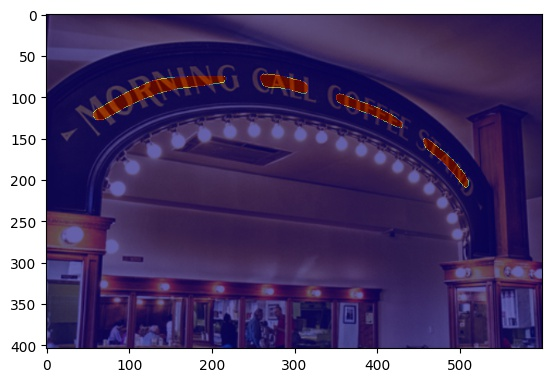
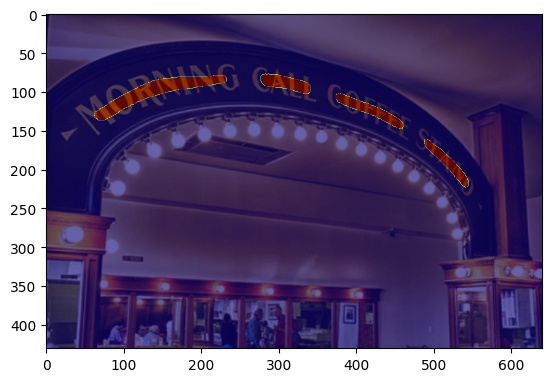
fix some issues

diff --git a/src/data_loaders.py b/src/data_loaders.py
@@ -38,7 +38,6 @@ class TotalTextDatasetIter(Dataset):
                  gt_paths,
                  is_training=True,
                  image_size=640,
-                 dataset='totaltext',
                  min_text_size=8,
                  shrink_ratio=0.4,
                  thresh_min=0.3,
@@ -62,7 +61,7 @@ class TotalTextDatasetIter(Dataset):
 
         self.mean = mean
 
-        self.all_anns = self.load_all_anns(gt_paths, dataset)
+        self.all_anns = self.load_all_anns(gt_paths)
         assert len(self.image_paths) == len(self.all_anns)
 
         self.debug = debug
@@ -71,13 +70,11 @@ class TotalTextDatasetIter(Dataset):
         augment_seq = iaa.Sequential([
             iaa.Fliplr(0.5),
             iaa.Affine(rotate=(-10, 10)),
-            # iaa.Crop(percent=(0, 0.1)),
-            # iaa.Sometimes(0.2, iaa.GaussianBlur(sigma=(0, 0.1))),
             iaa.Resize((0.5, 3.0))
         ])
         return augment_seq
 
-    def load_all_anns(self, gt_paths, dataset='totaltext'):
+    def load_all_anns(self, gt_paths):
         res = []
         for gt in gt_paths:
             lines = []
@@ -111,7 +108,7 @@ class TotalTextDatasetIter(Dataset):
             print(len(anns))
 
         img = cv2.imread(image_path)[:, :, ::-1]
-        if self.is_training:
+        if self.is_training and self.augment is not None:
             augment_seq = self.augment.to_deterministic()
             img, anns = db_transforms.transform(augment_seq, img, anns)
             img, anns = db_transforms.crop(img, anns)
@@ -213,7 +210,7 @@ def run(cfg):
                                           cfg.data.totaltext.train_gt_dir)
     totaltext_train_iter = TotalTextDatasetIter(image_paths,
                                                 gt_paths,
-                                                is_training=False,
+                                                is_training=True,
                                                 debug=False)
     totaltext_train_loader = DataLoader(dataset=totaltext_train_iter,
                                         batch_size=1,
@@ -227,8 +224,8 @@ def run(cfg):
     import matplotlib.pyplot as plt
     plt.figure()
     plt.imshow(minmax_scaler_img(samples['img'][0].numpy().transpose(1, 2, 0)))
-    plt.imshow(samples['prob_map'][0], cmap='jet', alpha=0.5)
-    plt.imshow(samples['thresh_map'][0], cmap='jet', alpha=0.7)
+    plt.imshow(samples['prob_map'][0], cmap='jet', alpha=0.35)
+    plt.imshow(samples['thresh_map'][0], cmap='jet', alpha=0.5)
     # plt.imshow(samples['text_area_map'][0], cmap='jet', alpha=0.5)
     # plt.imshow(samples['supervision_mask'][0], cmap='jet', alpha=0.5)
     plt.savefig(os.path.join(cfg.meta.root_dir, 'tmp/foo.jpg'),

diff --git a/src/utils.py b/src/utils.py
@@ -35,11 +35,6 @@ def setup_logger(logger_name='dbtext', log_file_path=None):
     formatter = logging.Formatter(
         '%(asctime)s %(name)s %(levelname)s: %(message)s')
 
-    # handlers
-    # ch = logging.StreamHandler()
-    # ch.setFormatter(formatter)
-    # logger.addHandler(ch)
-
     if log_file_path is not None:
         file_handle = logging.FileHandler(log_file_path)
         file_handle.setFormatter(formatter)
@@ -51,9 +46,6 @@ def setup_logger(logger_name='dbtext', log_file_path=None):
 
 def to_device(batch, device='cuda'):
     new_batch = []
-    # new_batch.append(batch[0])
-    # for ele in batch[1:]:
-    #     new_batch.append(ele.to(device))
 
     for ele in batch:
         if isinstance(ele, torch.Tensor):
@@ -61,6 +53,13 @@ def to_device(batch, device='cuda'):
         else:
             new_batch.append(ele)
     return new_batch
+
+
+def dict_to_device(batch, device='cuda'):
+    for k, v in batch.items():
+        if isinstance(v, torch.Tensor):
+            batch[k] = v.to(device)
+    return batch
 
 
 def to_list_tuples_coords(anns):
@@ -71,13 +70,6 @@ def to_list_tuples_coords(anns):
             points.append((x[0].tolist(), y[0].tolist()))
         new_anns.append(points)
     return new_anns
-
-
-def dict_to_device(batch, device='cuda'):
-    for k, v in batch.items():
-        if isinstance(v, torch.Tensor):
-            batch[k] = v.to(device)
-    return batch
 
 
 def matplotlib_imshow(img, one_channel=False):
@@ -109,7 +101,7 @@ def visualize_tfb(tfb_writer,
                   imgs,
                   preds,
                   global_steps,
-                  thresh=0.3,
+                  thresh=0.5,
                   mode="TRAIN"):
     # origin img
     # imgs.shape = (batch_size, 3, image_size, image_size)
@@ -149,7 +141,7 @@ def visualize_tfb(tfb_writer,
                           global_steps)
 
 
-def test_resize(img, size=600, pad=False):
+def test_resize(img, size=640, pad=False):
     h, w, c = img.shape
     scale_w = size / w
     scale_h = size / h
@@ -177,7 +169,7 @@ def test_preprocess(img,
                     mean=[103.939, 116.779, 123.68],
                     to_tensor=True,
                     pad=False):
-    img = test_resize(img, size=600, pad=pad)
+    img = test_resize(img, size=640, pad=pad)
 
     img = img.astype(np.float32)
     img[..., 0] -= mean[0]
@@ -191,7 +183,7 @@ def test_preprocess(img,
     return img
 
 
-def draw_bbox(img_path, result, color=(255, 0, 0), thickness=2):
+def draw_bbox(img_path, result, color=(255, 0, 0), thickness=3):
     if isinstance(img_path, str):
         img_path = cv2.imread(img_path)
         # img_path = cv2.cvtColor(img_path, cv2.COLOR_BGR2RGB)

diff --git a/src/train.py b/src/train.py
@@ -38,10 +38,12 @@ def get_data_loaders(cfg):
 
     totaltext_train_iter = TotalTextDatasetIter(tt_train_img_fps,
                                                 tt_train_gt_fps,
+                                                image_size=cfg.hps.img_size,
                                                 is_training=True,
                                                 debug=False)
     totaltext_test_iter = TotalTextDatasetIter(tt_test_img_fps,
                                                tt_test_gt_fps,
+                                               image_size=cfg.hps.img_size,
                                                is_training=False,
                                                debug=False)
 
@@ -59,7 +61,7 @@ def get_data_loaders(cfg):
 def main(cfg):
 
     # set determinism
-    setup_determinism(42)
+    # setup_determinism(42)
 
     # setup logger
     logger = setup_logger(
@@ -180,9 +182,6 @@ def main(cfg):
             tfb_writer.add_scalar('TRAIN/HPs/lr', lr, global_steps)
 
             if global_steps % cfg.hps.log_iter == 0:
-                # logger.info(
-                #     "total_loss: {} - loss: {}"  # noqa
-                #     .format(total_loss, prob_threshold_loss))
                 logger.info(
                     "[{}-{}] - lr: {} - total_loss: {} - loss: {} - acc: {} - iou: {}"  # noqa
                     .format(epoch + 1, global_steps, lr, total_loss,
@@ -273,8 +272,9 @@ def main(cfg):
                 dbnet.state_dict(),
                 os.path.join(cfg.meta.root_dir, cfg.model.best_hmean_cp_path))
 
-        logger.info("Recall: {} - Precision: {} - HMean: {}".format(
-            recall, precision, hmean))
+        logger.info(
+            "TEST/Recall: {} - TEST/Precision: {} - TEST/HMean: {}".format(
+                recall, precision, hmean))
         tfb_writer.add_scalar('TEST/recall', recall, global_steps)
         tfb_writer.add_scalar('TEST/precision', precision, global_steps)
         tfb_writer.add_scalar('TEST/hmean', hmean, global_steps)

diff --git a/src/losses.py b/src/losses.py
@@ -72,7 +72,7 @@ class L1Loss(nn.Module):
         self.eps = eps
         self.reduction = reduction
 
-    def forward(self, pred, gt, mask=None):
+    def forward(self, pred, gt, mask):
         if mask is not None:
             loss = (torch.abs(pred - gt) * mask).sum() / \
                 (mask.sum() + self.eps)
@@ -127,8 +127,6 @@ class DBLoss(nn.Module):
 
         # losses
         prob_loss = self.ohem_loss(prob_pred, prob_gt_map, supervision_mask)
-        #         l1_loss_fn = torch.nn.L1Loss(reduction='mean')
-        #         threshold_loss = l1_loss_fn(threshold_map, threshold_gt_map)
         threshold_loss = self.l1_loss(threshold_map, threshold_gt_map,
                                       text_area_gt_map)
         prob_threshold_loss = prob_loss + self.beta * threshold_loss

diff --git a/src/deteval.py b/src/deteval.py
@@ -23,13 +23,17 @@ class DetectionDetEvalEvaluator(object):
 
     def evaluate_image(self, gt, pred):
         def get_union(pD, pG):
-            return Polygon(pD).union(Polygon(pG)).area
+            pD = Polygon(pD).buffer(0)
+            pG = Polygon(pG).buffer(0)
+            return pD.union(pG).area
 
         def get_intersection_over_union(pD, pG):
             return get_intersection(pD, pG) / get_union(pD, pG)
 
         def get_intersection(pD, pG):
-            return Polygon(pD).intersection(Polygon(pG)).area
+            pD = Polygon(pD).buffer(0)
+            pG = Polygon(pG).buffer(0)
+            return pD.intersection(pG).area
 
         def one_to_one_match(row, col):
             cont = 0

diff --git a/src/models.py b/src/models.py
@@ -24,6 +24,7 @@ class DBTextModel(nn.Module):
         self.backbone = backbone_model(pretrained=pretrained)
         self.segmentation_body = segmentation_body_dict[
             segmentation_body_name](backbone_out, inner_channels=256)
+        print(self.segmentation_body.out_channels)
         self.segmentation_head = segmentation_head_dict[
             segmentation_head_name](self.segmentation_body.out_channels,
                                     out_channels=2)
@@ -46,3 +47,7 @@ class DBTextModel(nn.Module):
                           align_corners=True)
 
         return y
+
+
+if __name__ == '__main__':
+    dbnet = DBTextModel()

diff --git a/src/make_eval.py b/src/make_eval.py
@@ -31,9 +31,9 @@ def load_args():
     parser.add_argument('--device', type=str, default='cuda')
 
     # for polygon & rotate rectangle
-    parser.add_argument('--thresh', type=float, default=0.2)
+    parser.add_argument('--thresh', type=float, default=0.3)
     parser.add_argument('--box_thresh', type=float, default=0.5)
-    parser.add_argument('--unclip_ratio', type=float, default=2.5)
+    parser.add_argument('--unclip_ratio', type=float, default=1.5)
     parser.add_argument('--is_output_polygon', type=str_to_bool, default=True)
 
     # output

diff --git a/src/db_transforms.py b/src/db_transforms.py
@@ -50,6 +50,7 @@ def draw_thresh_map(polygon, canvas, mask, shrink_ratio=0.4):
     xmax_valid = min(max(0, xmax), canvas.shape[1] - 1)
     ymin_valid = min(max(0, ymin), canvas.shape[0] - 1)
     ymax_valid = min(max(0, ymax), canvas.shape[0] - 1)
+
     # canvas[ymin_valid:ymax_valid + 1, xmin_valid:xmax_valid + 1] = np.fmax(
     #     1 - distance_map[ymin_valid - ymin:ymax_valid - ymin + 1,  # add 1
     #                      xmin_valid - xmin:xmax_valid - xmin + 1  # add 1
